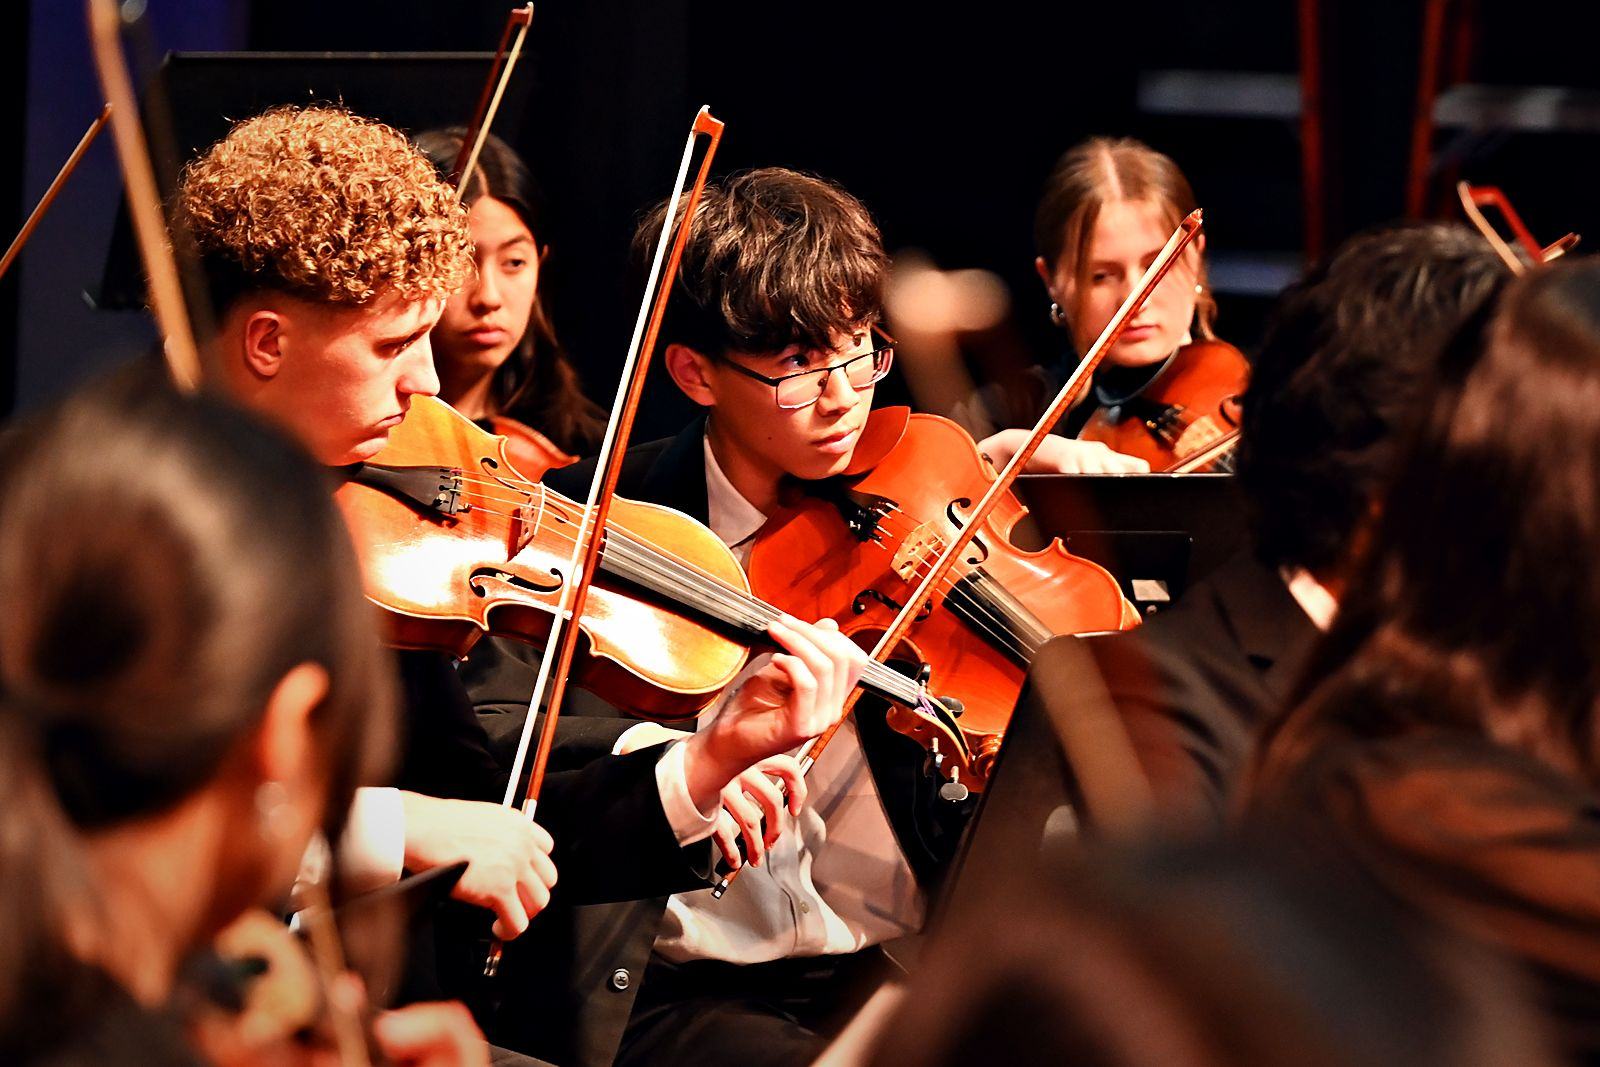
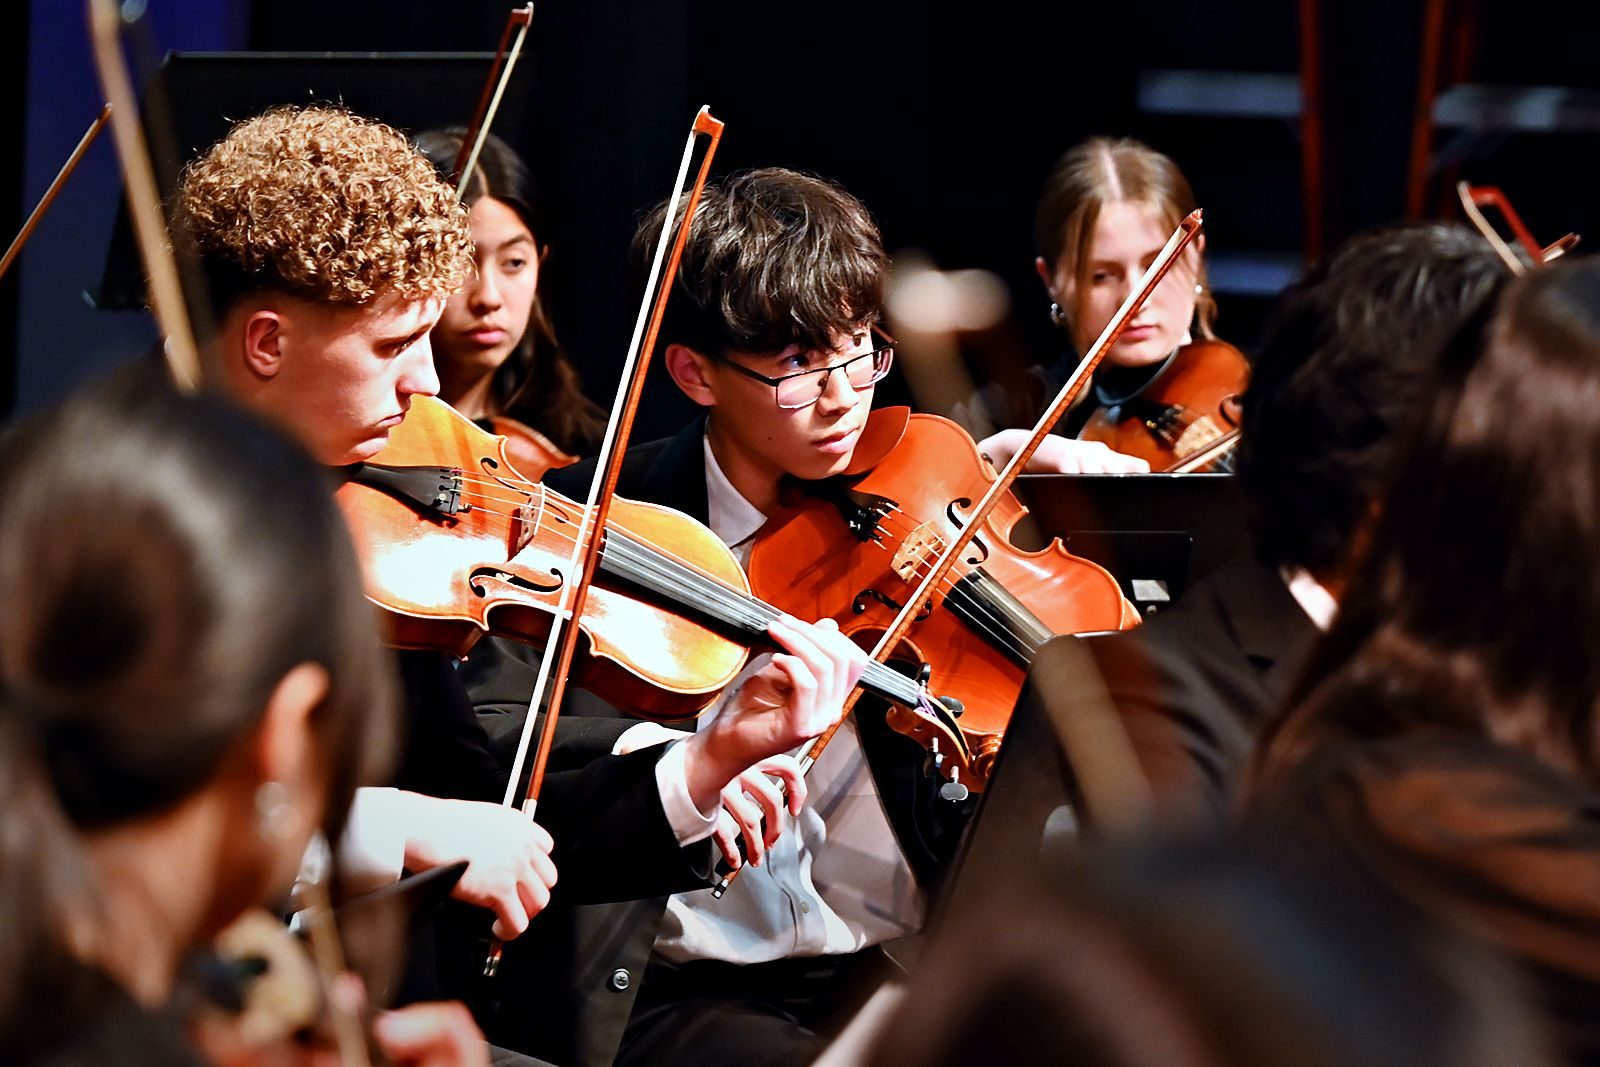
Add Handel concerto grosso video to Listen; cool down gallery photo grade

diff --git a/index.html b/index.html
@@ -12,14 +12,22 @@
     <meta property="og:type" content="website" />
     <meta property="og:site_name" content="Gavin Chang" />
     <meta property="og:title" content="Gavin Chang · Viola &amp; Violin" />
-    <meta property="og:description" content="Violist and violinist from the San Francisco Bay Area, playing with the Palo Alto Chamber Orchestra." />
+    <meta
+      property="og:description"
+      content="Violist and violinist from the San Francisco Bay Area, playing with the Palo Alto Chamber Orchestra."
+    />
     <meta property="og:url" content="https://gavinchang.com/" />
     <meta property="og:image" content="https://gavinchang.com/assets/og.jpg" />
     <meta property="og:image:width" content="1200" />
     <meta property="og:image:height" content="630" />
     <meta name="twitter:card" content="summary_large_image" />
     <link rel="icon" href="favicon.ico?v=2" sizes="any" />
-    <link rel="icon" type="image/png" sizes="32x32" href="assets/favicon-32.png?v=2" />
+    <link
+      rel="icon"
+      type="image/png"
+      sizes="32x32"
+      href="assets/favicon-32.png?v=2"
+    />
     <link rel="apple-touch-icon" href="assets/apple-touch-icon.png?v=2" />
     <link rel="manifest" href="site.webmanifest?v=2" />
     <meta name="theme-color" content="#11100e" />
@@ -32,7 +40,11 @@
         "image": "https://gavinchang.com/assets/og.jpg",
         "jobTitle": "Violist and violinist",
         "homeLocation": { "@type": "Place", "name": "San Francisco Bay Area" },
-        "memberOf": { "@type": "Organization", "name": "Palo Alto Chamber Orchestra", "url": "https://www.pacomusic.org/" }
+        "memberOf": {
+          "@type": "Organization",
+          "name": "Palo Alto Chamber Orchestra",
+          "url": "https://www.pacomusic.org/"
+        }
       }
     </script>
     <link rel="preconnect" href="https://fonts.googleapis.com" />
@@ -72,13 +84,23 @@
         <div class="intro">
           <p class="kicker">Violist &amp; violinist</p>
           <h1>Gavin<br />Chang</h1>
-          <p class="role">Palo Alto Chamber Orchestra<br />San Francisco Bay Area</p>
+          <p class="role">
+            Palo Alto Chamber Orchestra<br />San Francisco Bay Area
+          </p>
         </div>
       </div>
 
       <section id="listen" class="dark">
         <div class="wrap">
-          <div class="section-head"><div><h2>Listen</h2><p>Concert recordings</p></div><p class="aside"><a href="events.html">More on the Events page</a></p></div>
+          <div class="section-head">
+            <div>
+              <h2>Listen</h2>
+              <p>Concert recordings</p>
+            </div>
+            <p class="aside">
+              <a href="events.html">More on the Events page</a>
+            </p>
+          </div>
           <div class="videos">
             <div class="clip">
               <div class="video">
@@ -87,7 +109,15 @@
                   title="Mendelssohn String Quintet in A Major, PACO Chamber Academy"
                   loading="lazy"
                   referrerpolicy="strict-origin-when-cross-origin"
-                  allow="accelerometer; autoplay; clipboard-write; encrypted-media; gyroscope; picture-in-picture; web-share"
+                  allow="
+                    accelerometer;
+                    autoplay;
+                    clipboard-write;
+                    encrypted-media;
+                    gyroscope;
+                    picture-in-picture;
+                    web-share;
+                  "
                   allowfullscreen
                 ></iframe>
               </div>
@@ -103,7 +133,15 @@
                   title="Ravel String Quartet in F Major, PACO Sinfonia"
                   loading="lazy"
                   referrerpolicy="strict-origin-when-cross-origin"
-                  allow="accelerometer; autoplay; clipboard-write; encrypted-media; gyroscope; picture-in-picture; web-share"
+                  allow="
+                    accelerometer;
+                    autoplay;
+                    clipboard-write;
+                    encrypted-media;
+                    gyroscope;
+                    picture-in-picture;
+                    web-share;
+                  "
                   allowfullscreen
                 ></iframe>
               </div>
@@ -112,36 +150,93 @@
                 <span>Violin, PACO Sinfonia, Mar 2026</span>
               </p>
             </div>
+            <div class="clip">
+              <div class="video">
+                <iframe
+                  src="https://www.youtube-nocookie.com/embed/bKNfH7iYo7M?rel=0"
+                  title="Handel Concerto Grosso Op. 6 No. 12, PACO Sinfonia"
+                  loading="lazy"
+                  referrerpolicy="strict-origin-when-cross-origin"
+                  allow="accelerometer; autoplay; clipboard-write; encrypted-media; gyroscope; picture-in-picture; web-share"
+                  allowfullscreen
+                ></iframe>
+              </div>
+              <p class="caption">
+                <strong>Handel, Concerto Grosso, Op. 6 No. 12 in B minor</strong>
+                <span>Violin, concertmaster, PACO Sinfonia, Mar 2026</span>
+              </p>
+            </div>
           </div>
         </div>
       </section>
 
       <section id="gallery" class="dark deep">
         <div class="wrap">
-          <div class="section-head"><div><h2>Gallery</h2><p>Photographs from concerts and rehearsals</p></div></div>
+          <div class="section-head">
+            <div>
+              <h2>Gallery</h2>
+              <p>Photographs from concerts and rehearsals</p>
+            </div>
+          </div>
           <div class="gallery">
             <figure>
-              <img src="assets/gallery/quintet-stage.jpg" alt="Gavin playing viola in the Mendelssohn String Quintet on stage" width="1800" height="1200" loading="lazy" />
+              <img
+                src="assets/gallery/quintet-stage.jpg"
+                alt="Gavin playing viola in the Mendelssohn String Quintet on stage"
+                width="1800"
+                height="1200"
+                loading="lazy"
+              />
               <figcaption>Mendelssohn Quintet, Cubberley Theatre</figcaption>
             </figure>
             <figure>
-              <img src="assets/gallery/orchestra.jpg" alt="Gavin playing viola in the Senior PACO orchestra" width="1600" height="1067" loading="lazy" />
+              <img
+                src="assets/gallery/orchestra.jpg"
+                alt="Gavin playing viola in the Senior PACO orchestra"
+                width="1600"
+                height="1067"
+                loading="lazy"
+              />
               <figcaption>Senior PACO, Nov 2026</figcaption>
             </figure>
             <figure>
-              <img src="assets/gallery/quintet-close.jpg" alt="Gavin performing with his chamber ensemble" width="1600" height="1067" loading="lazy" />
+              <img
+                src="assets/gallery/quintet-close.jpg"
+                alt="Gavin performing with his chamber ensemble"
+                width="1600"
+                height="1067"
+                loading="lazy"
+              />
               <figcaption>Mendelssohn Quintet, Nov 2026</figcaption>
             </figure>
             <figure>
-              <img src="assets/gallery/rehearsal.jpg" alt="Gavin smiling while playing viola in rehearsal" width="1600" height="1067" loading="lazy" />
+              <img
+                src="assets/gallery/rehearsal.jpg"
+                alt="Gavin smiling while playing viola in rehearsal"
+                width="1600"
+                height="1067"
+                loading="lazy"
+              />
               <figcaption>Rehearsal, Nov 2026</figcaption>
             </figure>
             <figure>
-              <img src="assets/gallery/perf-2.jpg" alt="Gavin with his coach and quartet partner after a concert" width="1600" height="1011" loading="lazy" />
+              <img
+                src="assets/gallery/perf-2.jpg"
+                alt="Gavin with his coach and quartet partner after a concert"
+                width="1600"
+                height="1011"
+                loading="lazy"
+              />
               <figcaption>After the Sinfonia concert, Mar 2026</figcaption>
             </figure>
             <figure>
-              <img src="assets/gallery/perf-1.jpg" alt="Gavin performing in a string quartet on stage" width="1800" height="1200" loading="lazy" />
+              <img
+                src="assets/gallery/perf-1.jpg"
+                alt="Gavin performing in a string quartet on stage"
+                width="1800"
+                height="1200"
+                loading="lazy"
+              />
               <figcaption>Ravel Quartet, Mar 2026</figcaption>
             </figure>
           </div>
@@ -150,16 +245,30 @@
 
       <section id="about">
         <div class="wrap">
-          <div class="section-head"><div><h2>About</h2><p>Biography</p></div></div>
+          <div class="section-head">
+            <div>
+              <h2>About</h2>
+              <p>Biography</p>
+            </div>
+          </div>
           <div class="about">
             <div class="bio">
               <p>
                 Gavin Chang is a violist and violinist from the San Francisco
                 Bay Area. He currently plays viola in Senior PACO, the most
                 advanced ensemble of the
-                <a href="https://www.pacomusic.org/" target="_blank" rel="noopener">Palo Alto Chamber Orchestra</a>.
-                He studies under the tutelage of violist
-                <a href="https://www.aaronrosengaus.com/" target="_blank" rel="noopener">Aaron Rosengaus</a>
+                <a
+                  href="https://www.pacomusic.org/"
+                  target="_blank"
+                  rel="noopener"
+                  >Palo Alto Chamber Orchestra</a
+                >. He studies under the tutelage of violist
+                <a
+                  href="https://www.aaronrosengaus.com/"
+                  target="_blank"
+                  rel="noopener"
+                  >Aaron Rosengaus</a
+                >
                 and has performed for Zakarias Grafilo of the Alexander String
                 Quartet and renowned musicians Eugene Sor and Scott Krijnen. He
                 has also shared the stage with Mr. Krijnen and with
@@ -174,11 +283,18 @@
                 Senior PACO as a violist.
               </p>
               <p>
+                As one of PACO's
+                <a
+                  href="https://www.pacomusic.org/programs/student-leadership-council"
+                >
+                  Pedagogical Ambassadors</a
+                >, he also coaches younger string players, a role that asks him
+                not only to play the music he loves but to explain it.
+              </p>
+              <p>
                 At Adrian Wilcox High School, Gavin has played in the Advanced
                 Orchestra since ninth grade and has served as principal violist
-                since 2025. As one of PACO's Pedagogical Ambassadors, he also
-                coaches younger string players, a role that asks him not only
-                to play the music he loves but to explain it.
+                since 2025.
               </p>
               <p>
                 Away from the viola, Gavin plays tennis, listens to a wide
@@ -188,19 +304,47 @@
             </div>
             <ul class="facts">
               <li>
-                <strong><a href="https://www.pacomusic.org/programs/our-orchestras#h.ri6qme455446" target="_blank" rel="noopener">PACO Senior Orchestra</a></strong>
+                <strong
+                  ><a
+                    href="https://www.pacomusic.org/programs/our-orchestras#h.ri6qme455446"
+                    target="_blank"
+                    rel="noopener"
+                    >PACO Senior Orchestra</a
+                  ></strong
+                >
                 <span>Viola, 2026 to present</span>
               </li>
               <li>
-                <strong><a href="https://www.pacomusic.org/programs/our-orchestras#h.qbkvhbnyuhsc" target="_blank" rel="noopener">PACO Sinfonia Orchestra</a></strong>
+                <strong
+                  ><a
+                    href="https://www.pacomusic.org/programs/our-orchestras#h.qbkvhbnyuhsc"
+                    target="_blank"
+                    rel="noopener"
+                    >PACO Sinfonia Orchestra</a
+                  ></strong
+                >
                 <span>Violin, 2025–26. Concertmaster, March 2026</span>
               </li>
               <li>
-                <strong><a href="https://www.pacomusic.org/programs/student-leadership-council" target="_blank" rel="noopener">PACO Pedagogical Ambassadors</a></strong>
+                <strong
+                  ><a
+                    href="https://www.pacomusic.org/programs/student-leadership-council"
+                    target="_blank"
+                    rel="noopener"
+                    >PACO Pedagogical Ambassadors</a
+                  ></strong
+                >
                 <span>Mentor to younger musicians, 2025 to present</span>
               </li>
               <li>
-                <strong><a href="https://wilcox.santaclarausd.org/academics/departments/visual-and-performing-arts" target="_blank" rel="noopener">Adrian Wilcox High School</a></strong>
+                <strong
+                  ><a
+                    href="https://wilcox.santaclarausd.org/academics/departments/visual-and-performing-arts"
+                    target="_blank"
+                    rel="noopener"
+                    >Adrian Wilcox High School</a
+                  ></strong
+                >
                 <span>Principal viola, 2025 to present</span>
               </li>
             </ul>
@@ -210,7 +354,12 @@
 
       <section id="contact" class="sand">
         <div class="wrap">
-          <div class="section-head"><div><h2>Contact</h2><p>Performances, events and lessons</p></div></div>
+          <div class="section-head">
+            <div>
+              <h2>Contact</h2>
+              <p>Performances, events and lessons</p>
+            </div>
+          </div>
           <div class="contact">
             <p class="note">
               For performances, private events, lessons and chamber
@@ -219,8 +368,18 @@
             </p>
             <form data-contact>
               <div class="row">
-                <label><span>Name</span><input name="name" autocomplete="name" required /></label>
-                <label><span>Email</span><input name="email" type="email" autocomplete="email" required /></label>
+                <label
+                  ><span>Name</span
+                  ><input name="name" autocomplete="name" required
+                /></label>
+                <label
+                  ><span>Email</span
+                  ><input
+                    name="email"
+                    type="email"
+                    autocomplete="email"
+                    required
+                /></label>
               </div>
               <div class="row">
                 <label
@@ -232,13 +391,30 @@
                     <option>Something else</option>
                   </select>
                 </label>
-                <label><span>Event date (if any)</span><input name="date" placeholder="e.g. June 14, 2027" /></label>
+                <label
+                  ><span>Event date (if any)</span
+                  ><input name="date" placeholder="e.g. June 14, 2027"
+                /></label>
               </div>
-              <label><span>Message</span><textarea name="message" required></textarea></label>
+              <label
+                ><span>Message</span
+                ><textarea name="message" required></textarea>
+              </label>
               <button type="submit">Send message</button>
-              <input class="hp" name="website" tabindex="-1" autocomplete="off" aria-hidden="true" />
-              <p class="form-done" hidden>Thank you. Your message has been sent.</p>
-              <p class="form-fail" hidden>Sorry, the message couldn't be sent. Please check your connection and try again.</p>
+              <input
+                class="hp"
+                name="website"
+                tabindex="-1"
+                autocomplete="off"
+                aria-hidden="true"
+              />
+              <p class="form-done" hidden>
+                Thank you. Your message has been sent.
+              </p>
+              <p class="form-fail" hidden>
+                Sorry, the message couldn't be sent. Please check your
+                connection and try again.
+              </p>
             </form>
           </div>
         </div>
